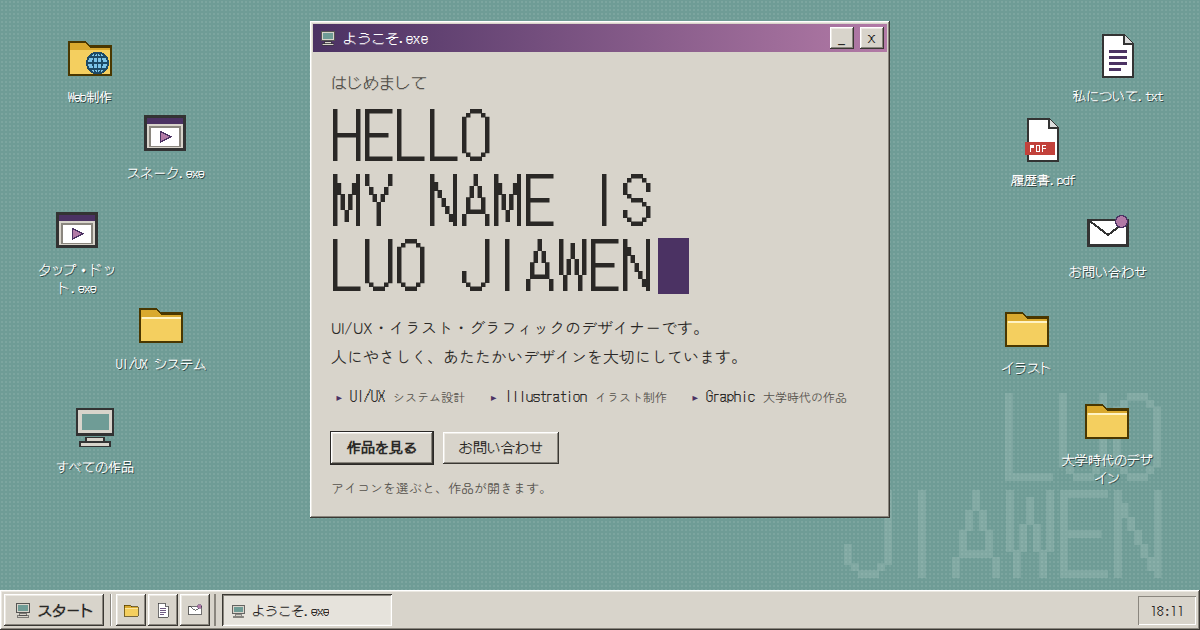
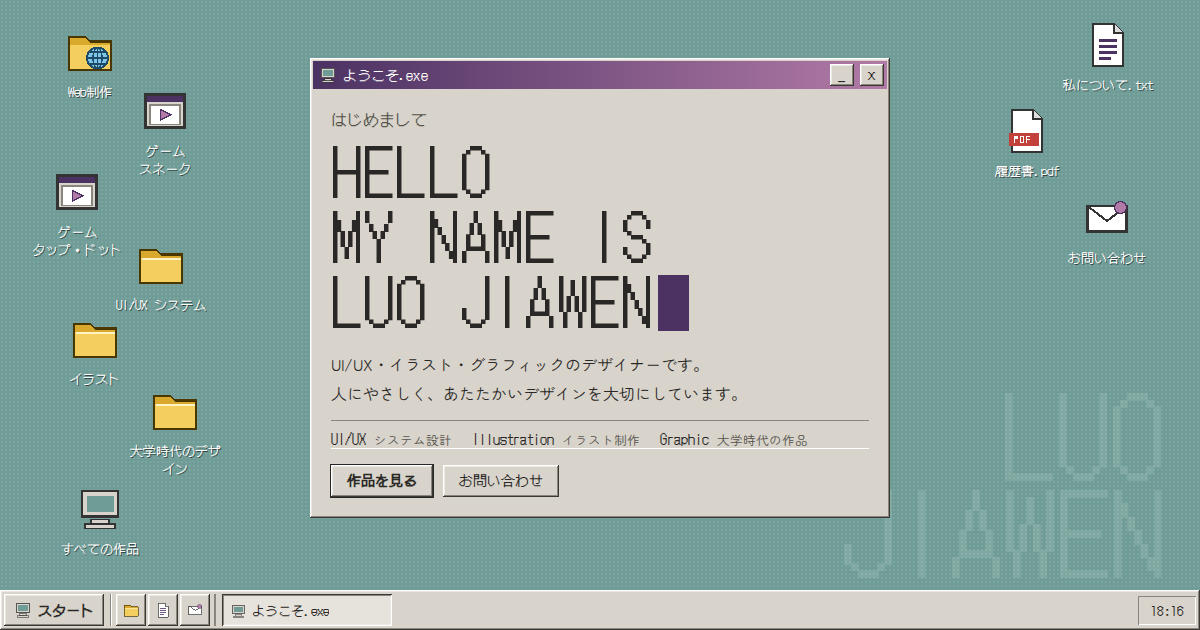
Make the desktop easier to read at a glance
Group icons by meaning: works on the left in priority order (Web制作,
games, UI/UX, illustration, university, all works), personal info on
the right (about, résumé, contact). Game icons say ゲーム explicitly.
The welcome window drops the hint line and shows the three domains as
plain labels instead of extra links.

Claude-Session: https://claude.ai/code/session_01TUuDej7PTE1WkXh9Pefr4z

diff --git a/assets/css/style.css b/assets/css/style.css
@@ -128,7 +128,7 @@ body.ready .entry { animation: icon-in .25s steps(3) backwards; animation-delay:
 .ico svg { width: 48px; height: 48px; image-rendering: pixelated; }
 .lbl {
   padding: 1px 4px;
-  text-align: center; line-height: 1.35;
+  text-align: center; line-height: 1.35; white-space: pre-line;
   text-shadow: 1px 1px 0 rgba(0, 0, 0, .55);
 }
 .entry.selected .lbl { background: var(--select); text-shadow: none; outline: 1px dotted #fff; }
@@ -203,17 +203,8 @@ body.ready .entry { animation: icon-in .25s steps(3) backwards; animation-delay:
 .cursor { display: inline-block; width: .5em; height: .9em; margin-left: .08em; background: var(--title-a); vertical-align: -.08em; animation: blink 1s steps(1) infinite; }
 @keyframes blink { 50% { opacity: 0; } }
 .hello > p:not([class]) { margin: 0 0 12px; line-height: 1.8; }
-.fields { list-style: none; display: flex; flex-wrap: wrap; gap: 4px 18px; margin: 0; padding: 0; }
-.field {
-  min-height: 32px; display: inline-flex; align-items: baseline; gap: 6px;
-  padding: 2px; border: none; background: none; text-align: left; cursor: pointer;
-}
-.field b { font-family: var(--pixel); font-weight: 400; font-size: 14px; padding: 0 2px; }
-.field span { font-size: 12px; color: var(--muted); }
-.field b::before { content: "▸ "; color: var(--select); }
-.field:hover b { background: var(--select); color: #fff; }
-.field:hover b::before { color: #fff; }
-.hint { margin: 14px 0 0; font-size: 13px; color: var(--muted); }
+.fields { list-style: none; display: flex; flex-wrap: wrap; gap: 2px 20px; margin: 0; padding: 8px 0 0; border-top: 1px solid var(--shade); box-shadow: 0 -1px 0 var(--light) inset; font-size: 12.5px; color: var(--muted); }
+.fields b { font-family: var(--pixel); font-weight: 400; font-size: 14px; color: var(--ink); margin-right: 4px; }
 
 /* ---------- フォルダの中身（作品カード） ---------- */
 .filters { display: flex; flex-wrap: wrap; gap: 6px; margin: 0 0 18px; }
@@ -417,10 +408,8 @@ button.g-shot { cursor: pointer; }
   .hello-big { font-size: 34px; margin-bottom: 12px; }
   .hello-small { display: none; }
   .hello > p:not([class]) { font-size: 13.5px; line-height: 1.7; }
-  .fields { gap: 0 14px; }
-  .field { min-height: 44px; align-items: center; }
+  .fields { gap: 2px 14px; }
   .is-welcome .row .btn { flex: 1; min-height: 44px; }
-  .hint { display: none; }
 
   /* アイコンはホーム画面のアプリ一覧に */
   .icons { position: static; display: grid; grid-template-columns: repeat(3, minmax(0, 1fr)); gap: 4px; padding: 14px 8px 24px; pointer-events: auto; }

diff --git a/assets/js/data.js b/assets/js/data.js
@@ -138,21 +138,23 @@ const CATEGORIES = [
    デスクトップのアイコンの並べ方
    id    : 何を置くか（'web' 'uiux' 'univ' 'illust' 'works' 'about' 'contact' 'resume'、
            ゲームは 'game:ゲームのid'）
-   label : アイコンの下に出る名前
+   label : アイコンの下に出る名前（\n で改行）
    x, y  : 置く位置（0 = 左/上の端、1 = 右/下の端）
    並び順は、スマホでの並び順にもなります（上にあるほど先に表示）
    -------------------------------------------------------------------------- */
 const DESK = [
-  { id: 'web',        label: 'Web制作',           x: 0.02, y: 0.03 },
-  { id: 'game:snake', label: 'スネーク.exe',       x: 0.10, y: 0.21 },
-  { id: 'game:tap',   label: 'タップ・ドット.exe', x: 0.02, y: 0.40 },
-  { id: 'uiux',       label: 'UI/UX システム',     x: 0.10, y: 0.59 },
-  { id: 'works',      label: 'すべての作品',       x: 0.02, y: 0.80 },
-  { id: 'about',      label: '私について.txt',     x: 0.98, y: 0.03 },
-  { id: 'resume',     label: '履歴書.pdf',         x: 0.90, y: 0.21 },
-  { id: 'contact',    label: 'お問い合わせ',       x: 0.98, y: 0.40 },
-  { id: 'illust',     label: 'イラスト',           x: 0.90, y: 0.59 },
-  { id: 'univ',       label: '大学時代のデザイン', x: 0.98, y: 0.80 },
+  // ── 左側：作品（上ほど見てほしいもの） ──
+  { id: 'web',        label: 'Web制作',            x: 0.02, y: 0.02 },
+  { id: 'game:snake', label: 'ゲーム\nスネーク',     x: 0.10, y: 0.17 },
+  { id: 'game:tap',   label: 'ゲーム\nタップ・ドット', x: 0.02, y: 0.32 },
+  { id: 'uiux',       label: 'UI/UX システム',      x: 0.10, y: 0.47 },
+  { id: 'illust',     label: 'イラスト',            x: 0.02, y: 0.62 },
+  { id: 'univ',       label: '大学時代のデザイン',  x: 0.10, y: 0.78 },
+  { id: 'works',      label: 'すべての作品',        x: 0.02, y: 0.96 },
+  // ── 右側：わたしのこと ──
+  { id: 'about',      label: '私について.txt',      x: 0.98, y: 0.02 },
+  { id: 'resume',     label: '履歴書.pdf',          x: 0.90, y: 0.19 },
+  { id: 'contact',    label: 'お問い合わせ',        x: 0.98, y: 0.36 },
 ];
 
 /* --------------------------------------------------------------------------

diff --git a/index.html b/index.html
@@ -43,15 +43,14 @@
     </h1>
     <p>UI/UX・イラスト・グラフィックのデザイナーです。<br>人にやさしく、あたたかいデザインを大切にしています。</p>
     <ul class="fields" aria-label="制作領域">
-      <li><button class="field" data-open="uiux"><b>UI/UX</b><span>システム設計</span></button></li>
-      <li><button class="field" data-open="illust"><b>Illustration</b><span>イラスト制作</span></button></li>
-      <li><button class="field" data-open="univ"><b>Graphic</b><span>大学時代の作品</span></button></li>
+      <li><b>UI/UX</b> システム設計</li>
+      <li><b>Illustration</b> イラスト制作</li>
+      <li><b>Graphic</b> 大学時代の作品</li>
     </ul>
     <div class="row">
       <button class="btn btn-main" data-open="works">作品を見る</button>
       <button class="btn" data-open="contact">お問い合わせ</button>
     </div>
-    <p class="hint">アイコンを選ぶと、作品が開きます。</p>
   </div>
 
   <!-- デスクトップのアイコン（中身は assets/js/data.js の DESK から作られます） -->

diff --git a/assets/js/main.js b/assets/js/main.js
@@ -113,7 +113,7 @@ else {
    ========================================================================== */
 const desk = $('#desk');
 const entriesBox = $('#entries');
-const POS_KEY = 'luo-desk-pos-v2';
+const POS_KEY = 'luo-desk-pos-v3';
 const savedPos = store.get(POS_KEY) || {};
 const rand = (a, b) => a + Math.random() * (b - a);
 const clamp01 = v => Math.min(1, Math.max(0, v));
@@ -139,7 +139,7 @@ const entries = DESK.map((d, i) => {
     '<span>▶ ' + esc(g.desc) + '</span></span>' : '';
   el.innerHTML = '<span class="ico" aria-hidden="true">' + iconFor(d.id) + '</span>' + preview +
     '<span class="lbl">' + esc(d.label) + extra + '</span>';
-  if (g) el.setAttribute('aria-label', d.label + '（Web ゲーム）');
+  if (g) el.setAttribute('aria-label', 'Web ゲーム：' + g.title);
   // 決めた位置 ＋ ほんの少しだけずらす（設計されたランダム）
   el._home = { x: clamp01(d.x + rand(-0.015, 0.015)), y: clamp01(d.y + rand(-0.015, 0.015)) };
   el._pos = savedPos[d.id] || el._home;
